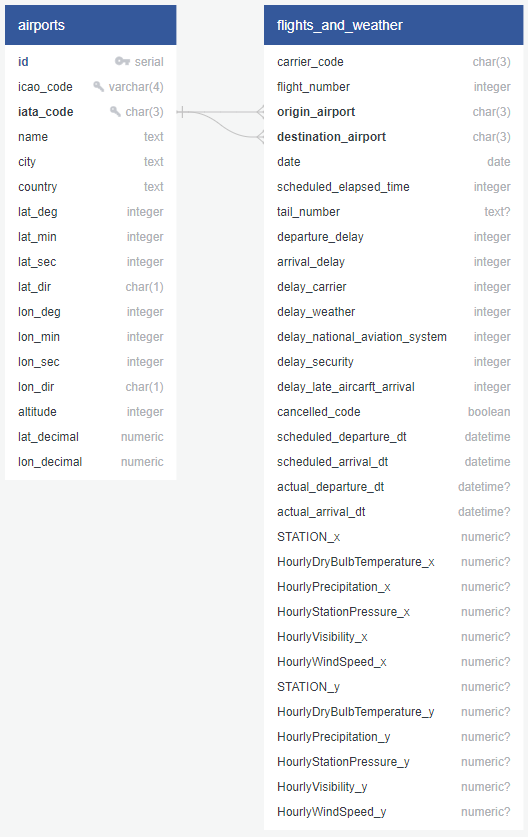
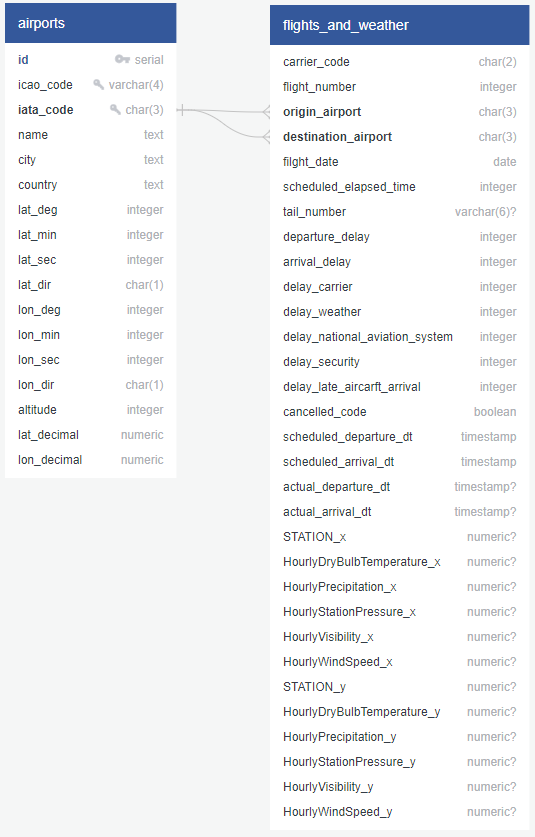
Update ERD

diff --git a/download_and_prepare_datasets/README.md b/download_and_prepare_datasets/README.md
@@ -35,13 +35,13 @@ lon_decimal numeric
 
 flights_and_weather as faw
 ----
-carrier_code char(3)
+carrier_code char(2)
 flight_number integer
 origin_airport char(3) FK >- ap.iata_code
 destination_airport char(3) FK >- ap.iata_code
-date date
+filght_date date
 scheduled_elapsed_time integer
-tail_number text NULLABLE
+tail_number varchar(6) NULLABLE
 departure_delay integer
 arrival_delay integer
 delay_carrier integer
@@ -50,10 +50,10 @@ delay_national_aviation_system integer
 delay_security integer
 delay_late_aircarft_arrival integer
 cancelled_code boolean
-scheduled_departure_dt datetime
-scheduled_arrival_dt datetime
-actual_departure_dt datetime NULLABLE
-actual_arrival_dt datetime NULLABLE
+scheduled_departure_dt timestamp
+scheduled_arrival_dt timestamp
+actual_departure_dt timestamp NULLABLE
+actual_arrival_dt timestamp NULLABLE
 STATION_x numeric NULLABLE
 HourlyDryBulbTemperature_x numeric NULLABLE
 HourlyPrecipitation_x numeric NULLABLE
